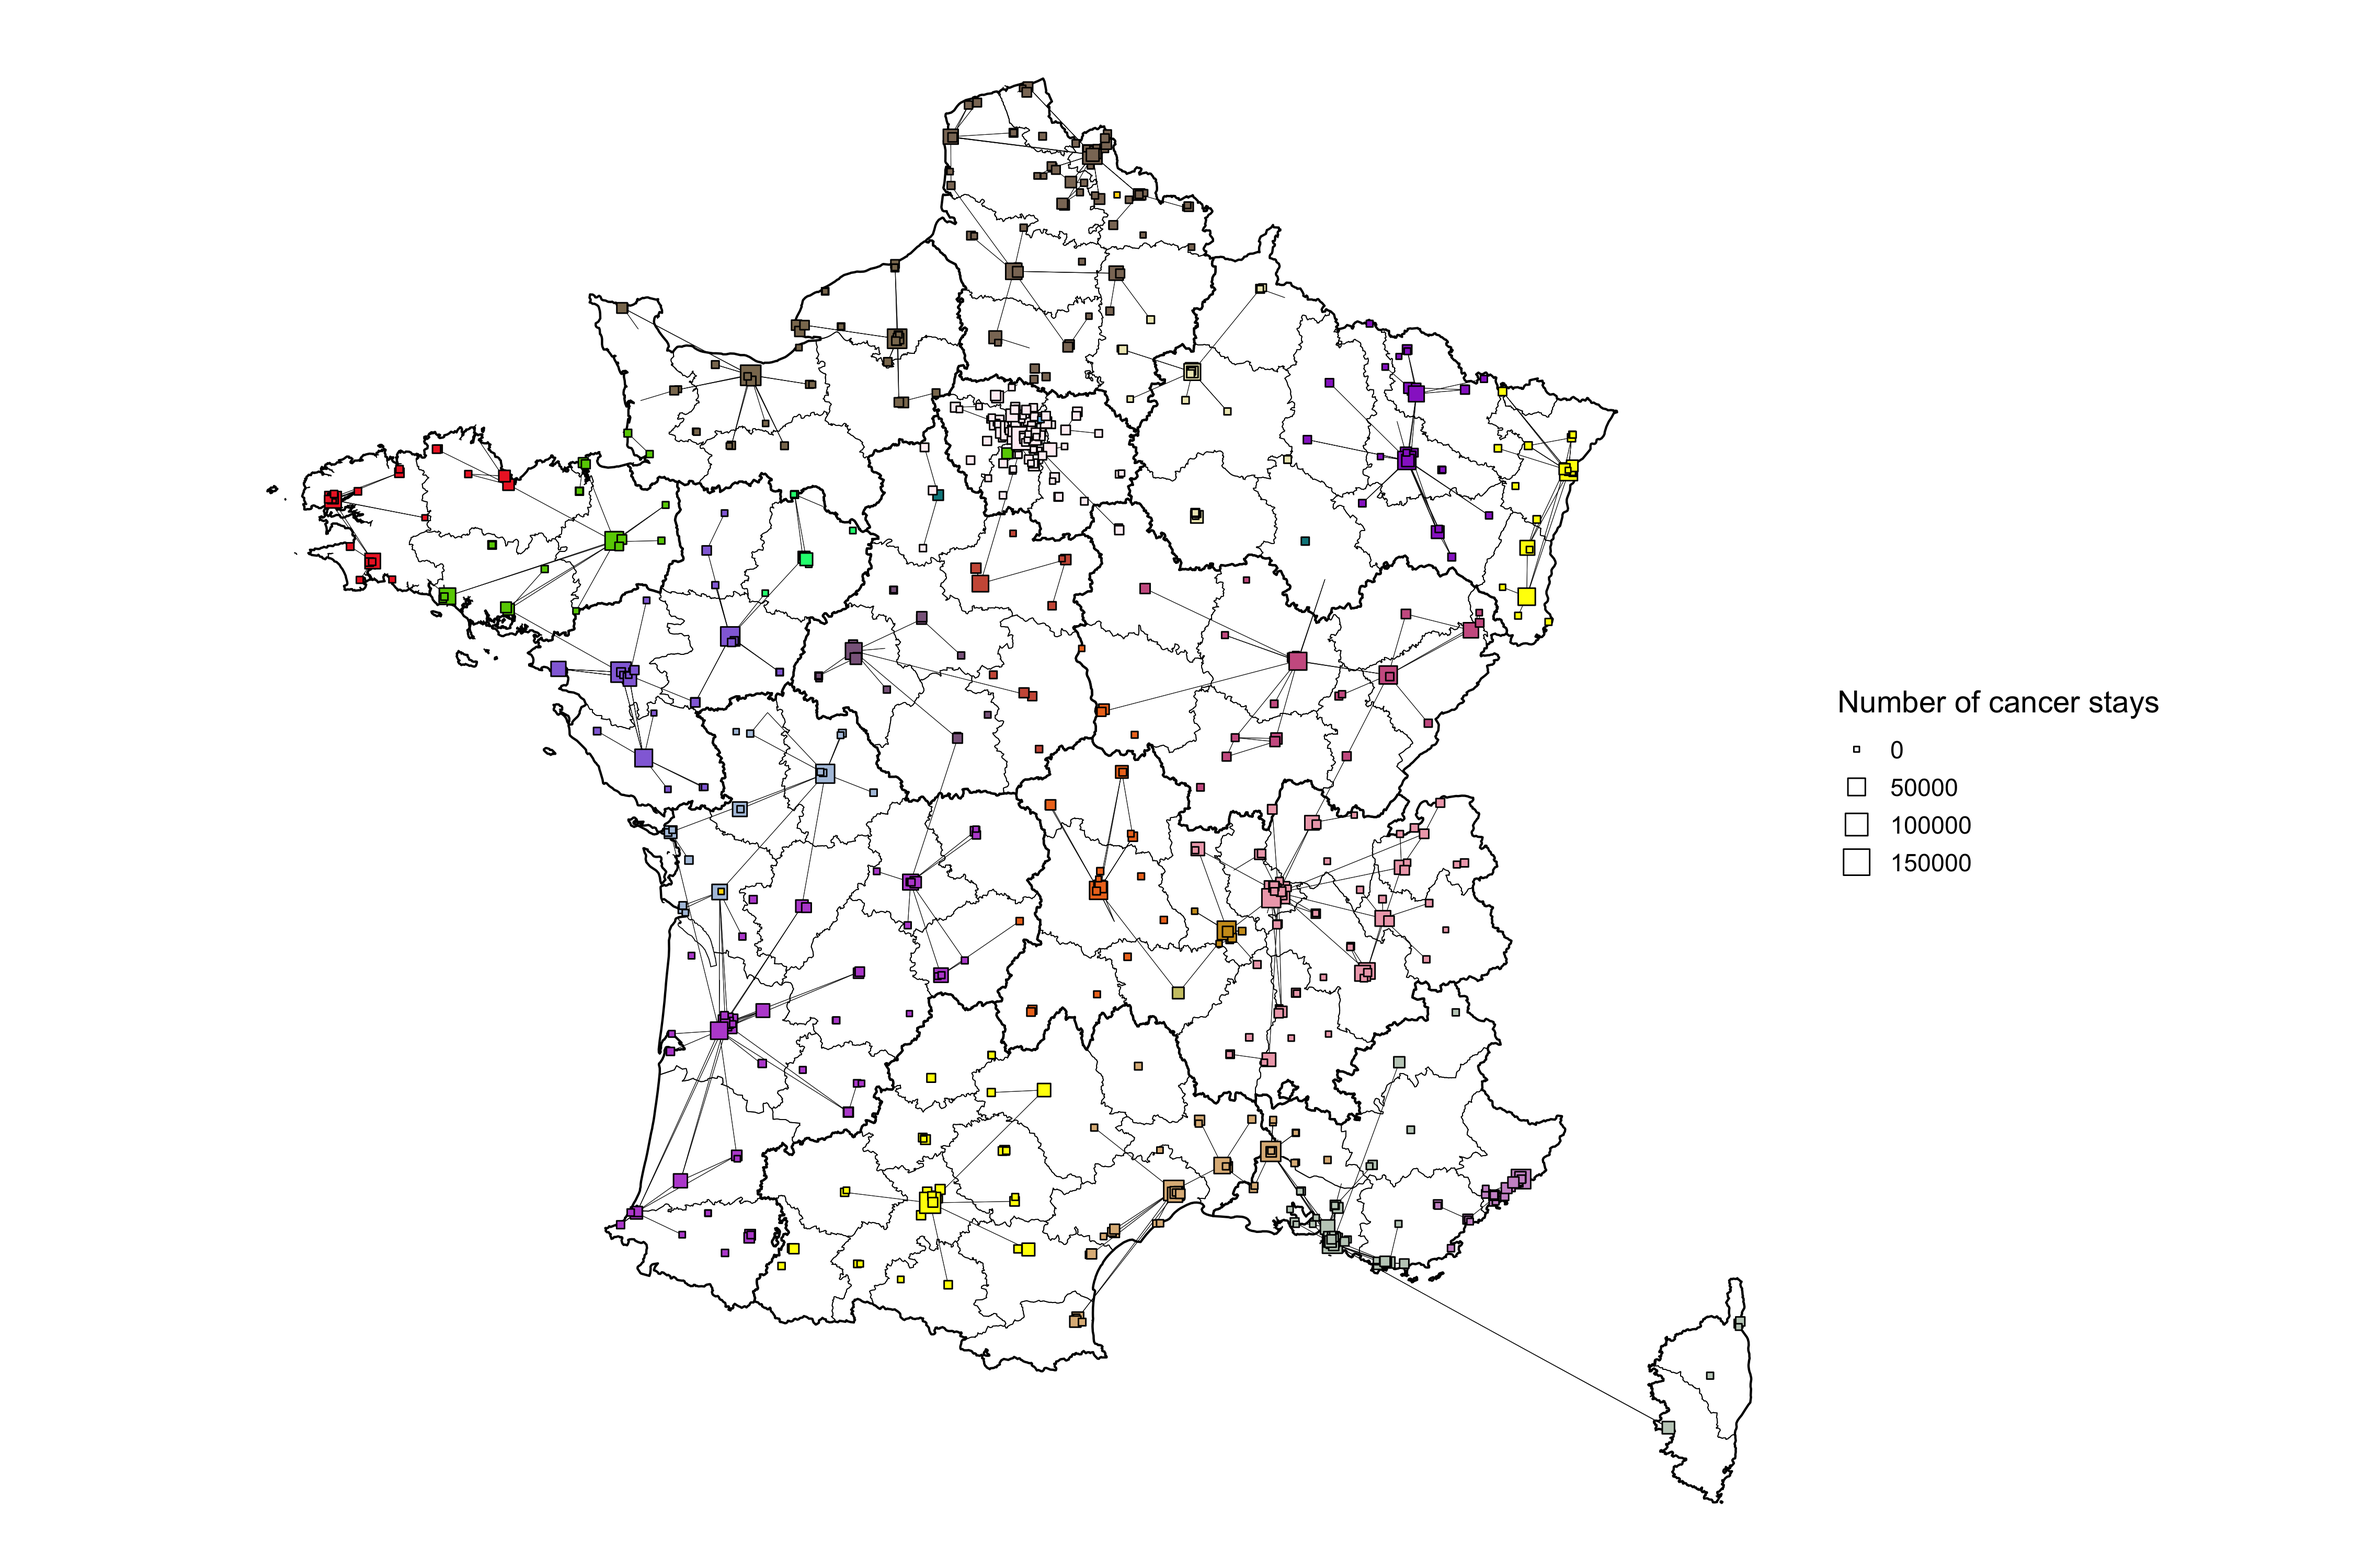
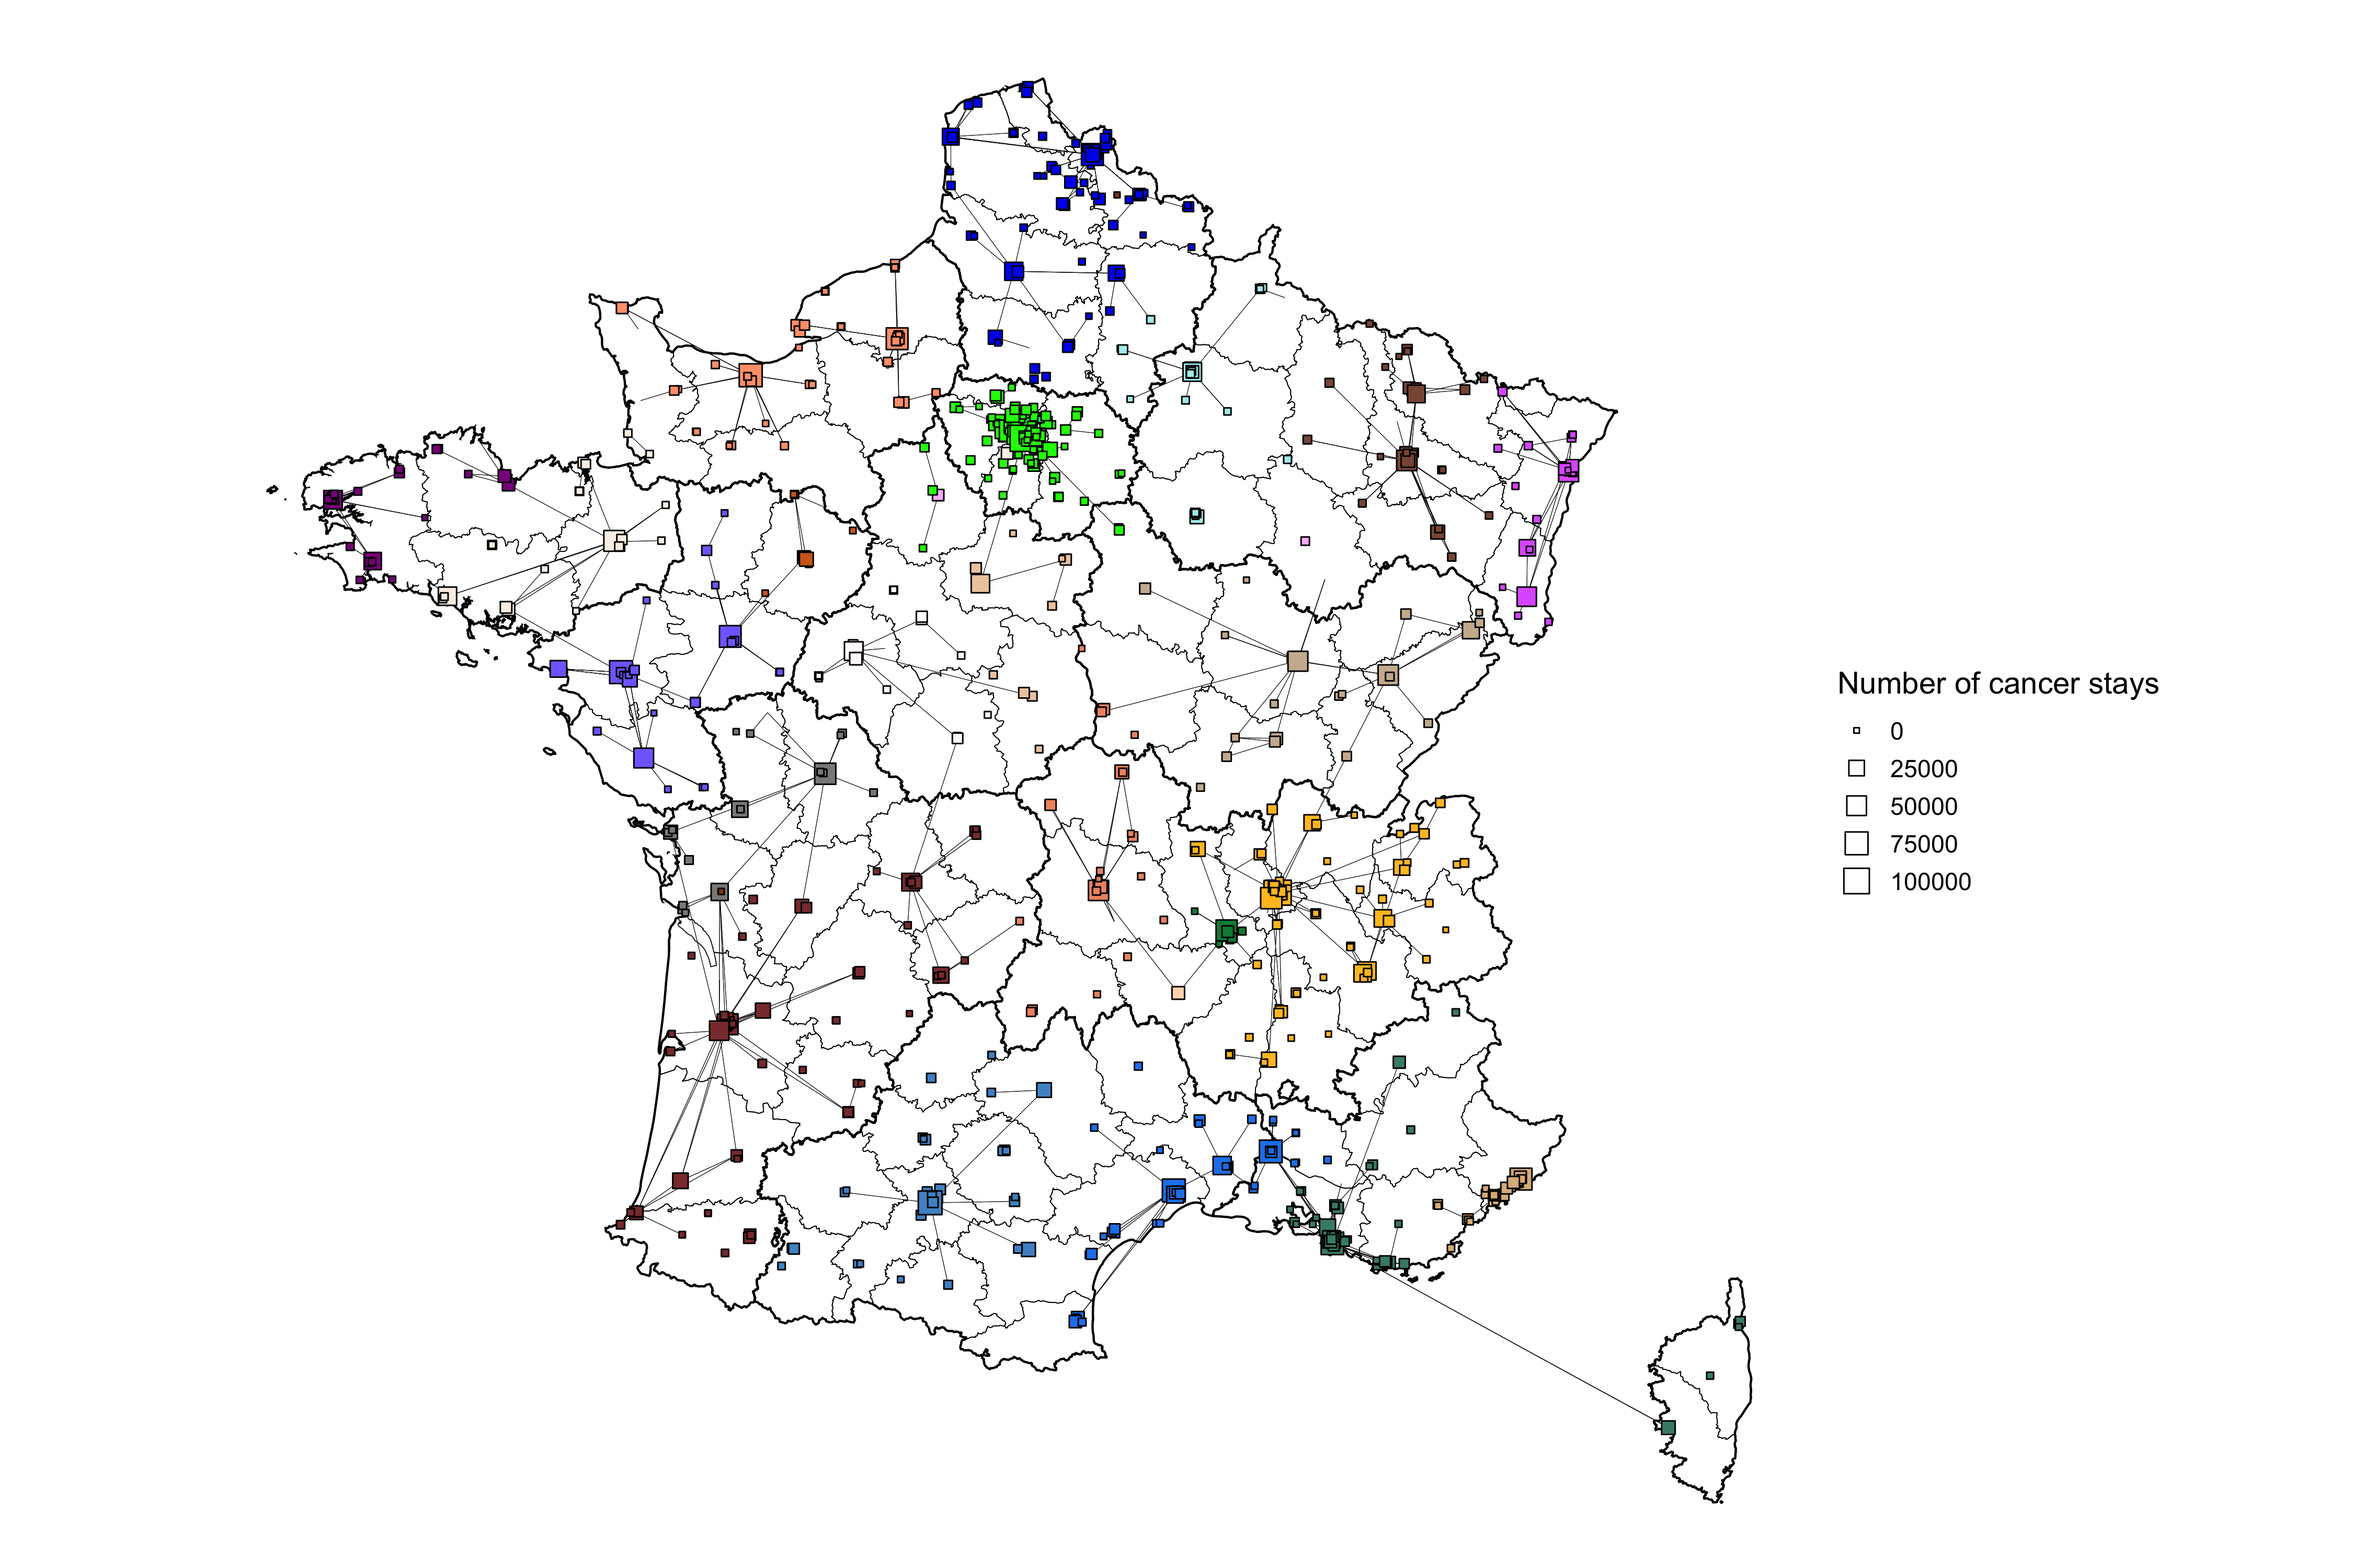
described co occ clustering

diff --git a/chapters/1-characterization.tex b/chapters/1-characterization.tex
@@ -36,6 +36,7 @@ available health services.
 \section{Methods}
 
 \subsection{Labelling hospitals by oncology specialization}
+\label{section:oncology-specialization-cluster}
 
 \subsubsection{Data collection}
 
@@ -351,6 +352,8 @@ of each hospital node. We ran a TSNE \cite{van_der_maaten_viualizing_2008}
 dimensionality reduction algorithm on top of $Z$ to obtain a 2D
 representation of every hospital. Finally, we performed a clustering on top of
 the reduced data, with the DBSCAN algorithm \cite{ester_density-based_1996}.
+We chose the DBSCAN algorithm because we did not know the number of communities
+to expect in the graph.
 
 \section{Results}
 
@@ -458,7 +461,7 @@ is difficult to assess the degree of oncology specialization for other care
 centers. Our clustering algorithm assigned the n=1,662 care centers into 8
 clusters, sorted by oncology specialization. The \ac{pca} and clustering results
 are visible on \cref{fig:clustering-pca}. The scatter plots (A) and (B) display
-the hospitals as points in the 2-dimensional PCA space, colored by assigned
+the hospitals as points in the 2-dimensional \ac{pca} space, colored by assigned
 cluster (A) and hospital category (B). We see two main groups of points on this
 scatter plot, one on top and one on the bottom. These points are well separated
 along the second PCA component. From plot (C), we can interpret the PCA
@@ -612,24 +615,95 @@ the number of hospitals per 100,000 inhabitants.
 
 \subsubsection{Collaborations between hospitals}
 
+We now describe our results on collaborations between hospitals. We selected
+patients with a cancer diagnosis during the year 2018, regardless of the cancer
+type. These patients visited a total of $n$=1,433 distinct hospitals. We
+computed the co-occurrence input matrix $X \in \mathbb{R}^{n \times n}$ from
+this dataset. We counted a co-occurrence between two hospitals every time a
+patient visited both hospitals during the year. We stress that it did not have
+to happen during the same stay. We then ran the \ac{vgae} model to learn the
+nodes representations, and performed dimensionality reduction with TSNE.
+Finally, the DBSCAN algorithm output 26 communities, and failed to find a
+community for 13 hospitals. We displayed the retrieved communities on
+\cref{fig:co-occ-france}. On this map, the hospitals are displayed as
+pictograms, sized by their oncology activity, and colored by the retrieved
+community, corresponding to the DBSCAN cluster. The links between the hospitals
+are the co-occurrences, and we only displayed links with more than 60
+co-occurrences for clarity.
+
 \begin{figure}[h!]
     \includegraphics[width=0.9\textwidth]{images/co-occurrences/fig1.png}
     \centering
-    \caption{ \textbf{Community detection in France.} Foo }
+    \caption{ \textbf{Community detection in France, learned on the
+            co-occurrence matrix.} The hospitals are displayed as
+        pictograms, sized by their oncology activity, and colored by the retrieved
+        community, corresponding to the DBSCAN cluster. The links between the hospitals
+        are the co-occurrences, and we only displayed links with more than 60
+        co-occurrences for clarity. }
     \label{fig:co-occ-france}
 \end{figure}
+
+We studied the hospitals distribution and geographical spread, as illustrated on
+\cref{fig:co-occ-description}. The barplot (A) displays the number of hospitals
+per community, and oncology specialization cluster. We notice that most of the
+communities have hospitals from the most specialized clusters. The next plot (B)
+displays the oncology activity per community and hospital cluster. As seen
+before, most of the activity is handled by hospitals from the most specialized
+clusters 1, 2 and 3. From this data, we identify some communities that do not
+have any oncology activity. The community labeled ``-1'' refers to the hospitals
+that could not be assigned to any cluster by the DBSCAN algorithm. Finally, we
+studied the geographical spread of the communities, to assess whether the
+hospitals are located closely to each other or far apart, as illustrated on plot
+(C). Intuitively, hospitals from the same communities should be located in the
+same area so that patients exchanges are easy and do not require long travels.
+This spread value was computed as the maximum square area containing all the
+hospitals from the community, obtained from \cref{eq:spread}.
+
+\begin{equation}
+    spread = (longitude_{max} - longitude_{min}) * (latitude_{max} - latitude_{min})
+    \label{eq:spread}
+\end{equation}
+
+The communities with the maximum spread are ``-1'' and ``1''. We already
+mentioned the ``-1'' community as the list of 13 hospitals that the DBSCAN
+algorithm did not cluster. Regarding the ``1'' community, it contains 307
+hospitals, that do not have any oncology activity. Hence, they are not connected
+to any hospital by the co-occurrence matrix. These hospitals could be either
+removed from the algorithm, or identified as hospitals to coordinate with nearby
+structures with oncology activity.
 
 \begin{figure}[h!]
     \includegraphics[width=0.9\textwidth]{images/co-occurrences/fig3.png}
     \centering
-    \caption{ \textbf{Community detection in France.} Foo }
+    \caption{ \textbf{Description of the discovered communities.} A total of 26
+        communities were discovered by the DBSCAN algorithm. The barplot (A)
+        displays the number of hospitals per community, and oncology specialization
+        cluster. The next plot (B) displays the oncology activity per community and
+        hospital cluster. Plot (C) illustrates the geographical spread of the
+        communities, to assess whether the hospitals are located closely to each
+        other or far apart. }
     \label{fig:co-occ-description}
 \end{figure}
+
+Finally, we focused on a single community, and picked the one labelled ``2'', as
+illustrated on \cref{fig:co-occ-cluster}. The hospitals are still sized by
+oncology activity, but they are now colored by the oncology specialization
+cluster, assigned in \cref{section:oncology-specialization-cluster}. From the
+map displayed on \cref{fig:co-occ-cluster}, we notice that the co-occurrences
+links are often grouped around the most specialized hospitals, belonging to the
+cluster 1. We also notice several sub-graphs in this community, again centered
+around cluster 1 hospitals. By combining the oncology specialization cluster and
+the collaborations, we can assign the most specialized hospitals as reference
+hospitals, that could be responsible for coordinating the less specialized
+structures.
 
 \begin{figure}[h!]
     \includegraphics[width=0.9\textwidth]{images/co-occurrences/fig2.png}
     \centering
-    \caption{ \textbf{Community detection in France.} Foo }
+    \caption{ \textbf{Community detection in France, focus on the single
+            community ``2''.} The hospitals are displayed as pictograms, sized by
+        their oncology activity, and colored by the oncology specialization
+        cluster. }
     \label{fig:co-occ-cluster}
 \end{figure}
 
